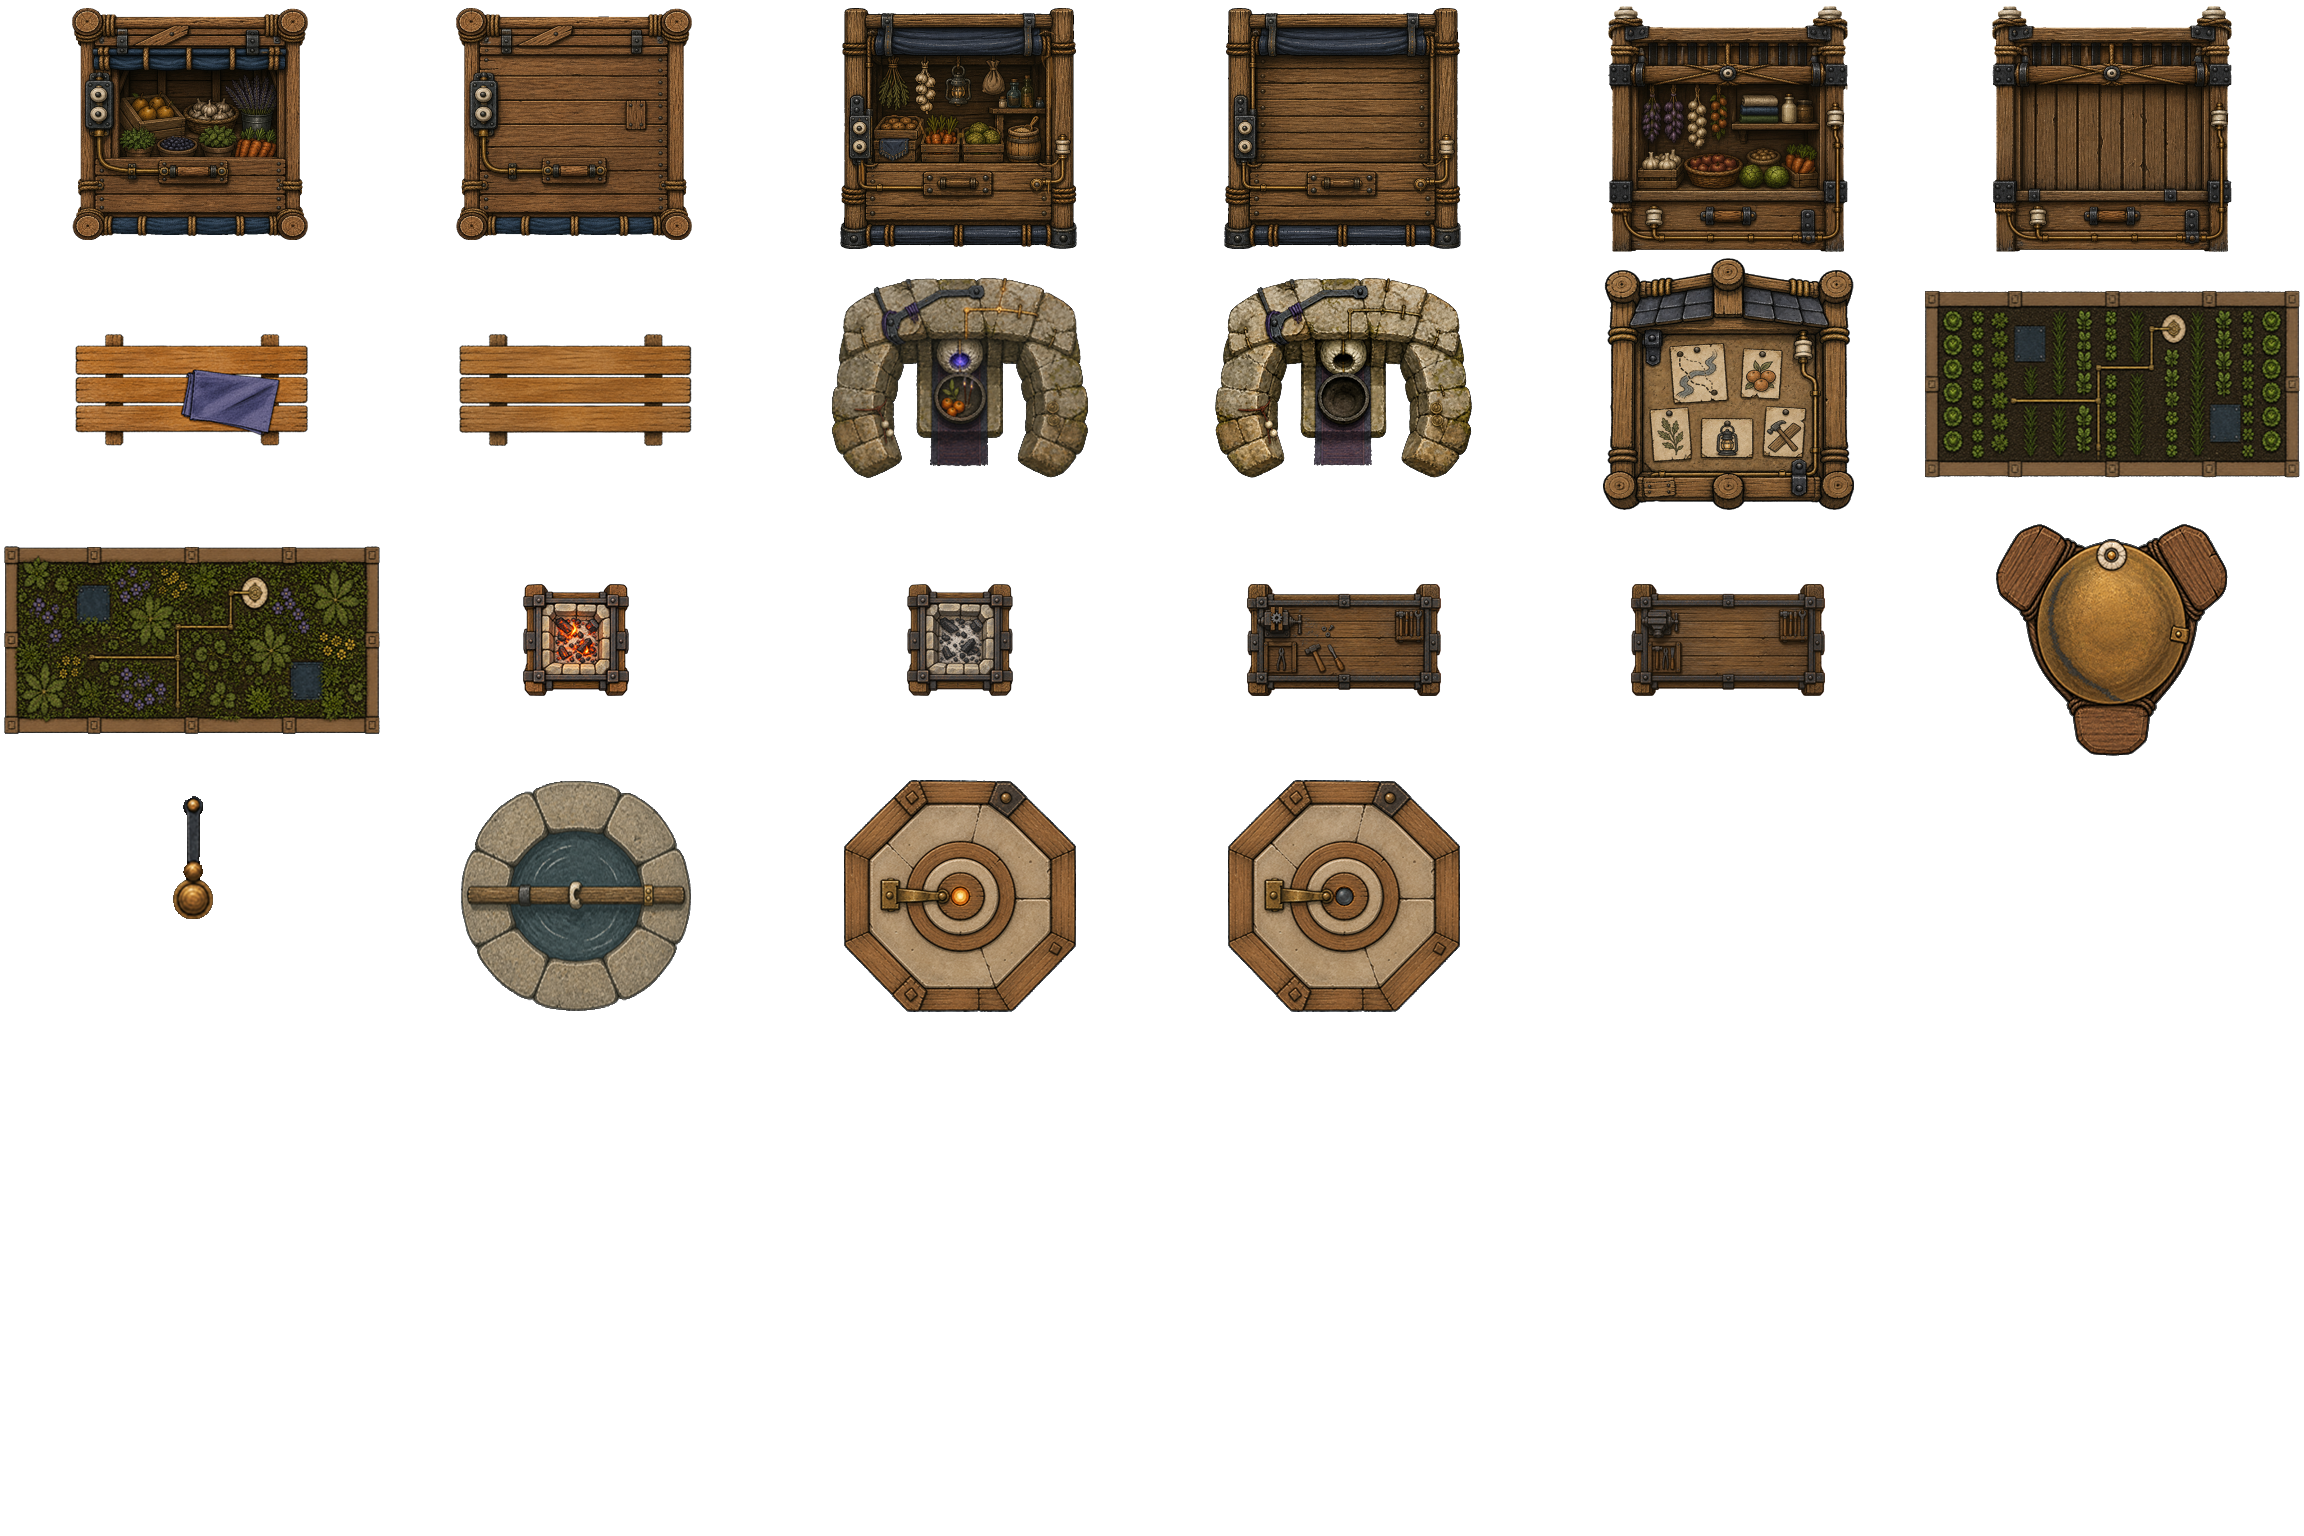
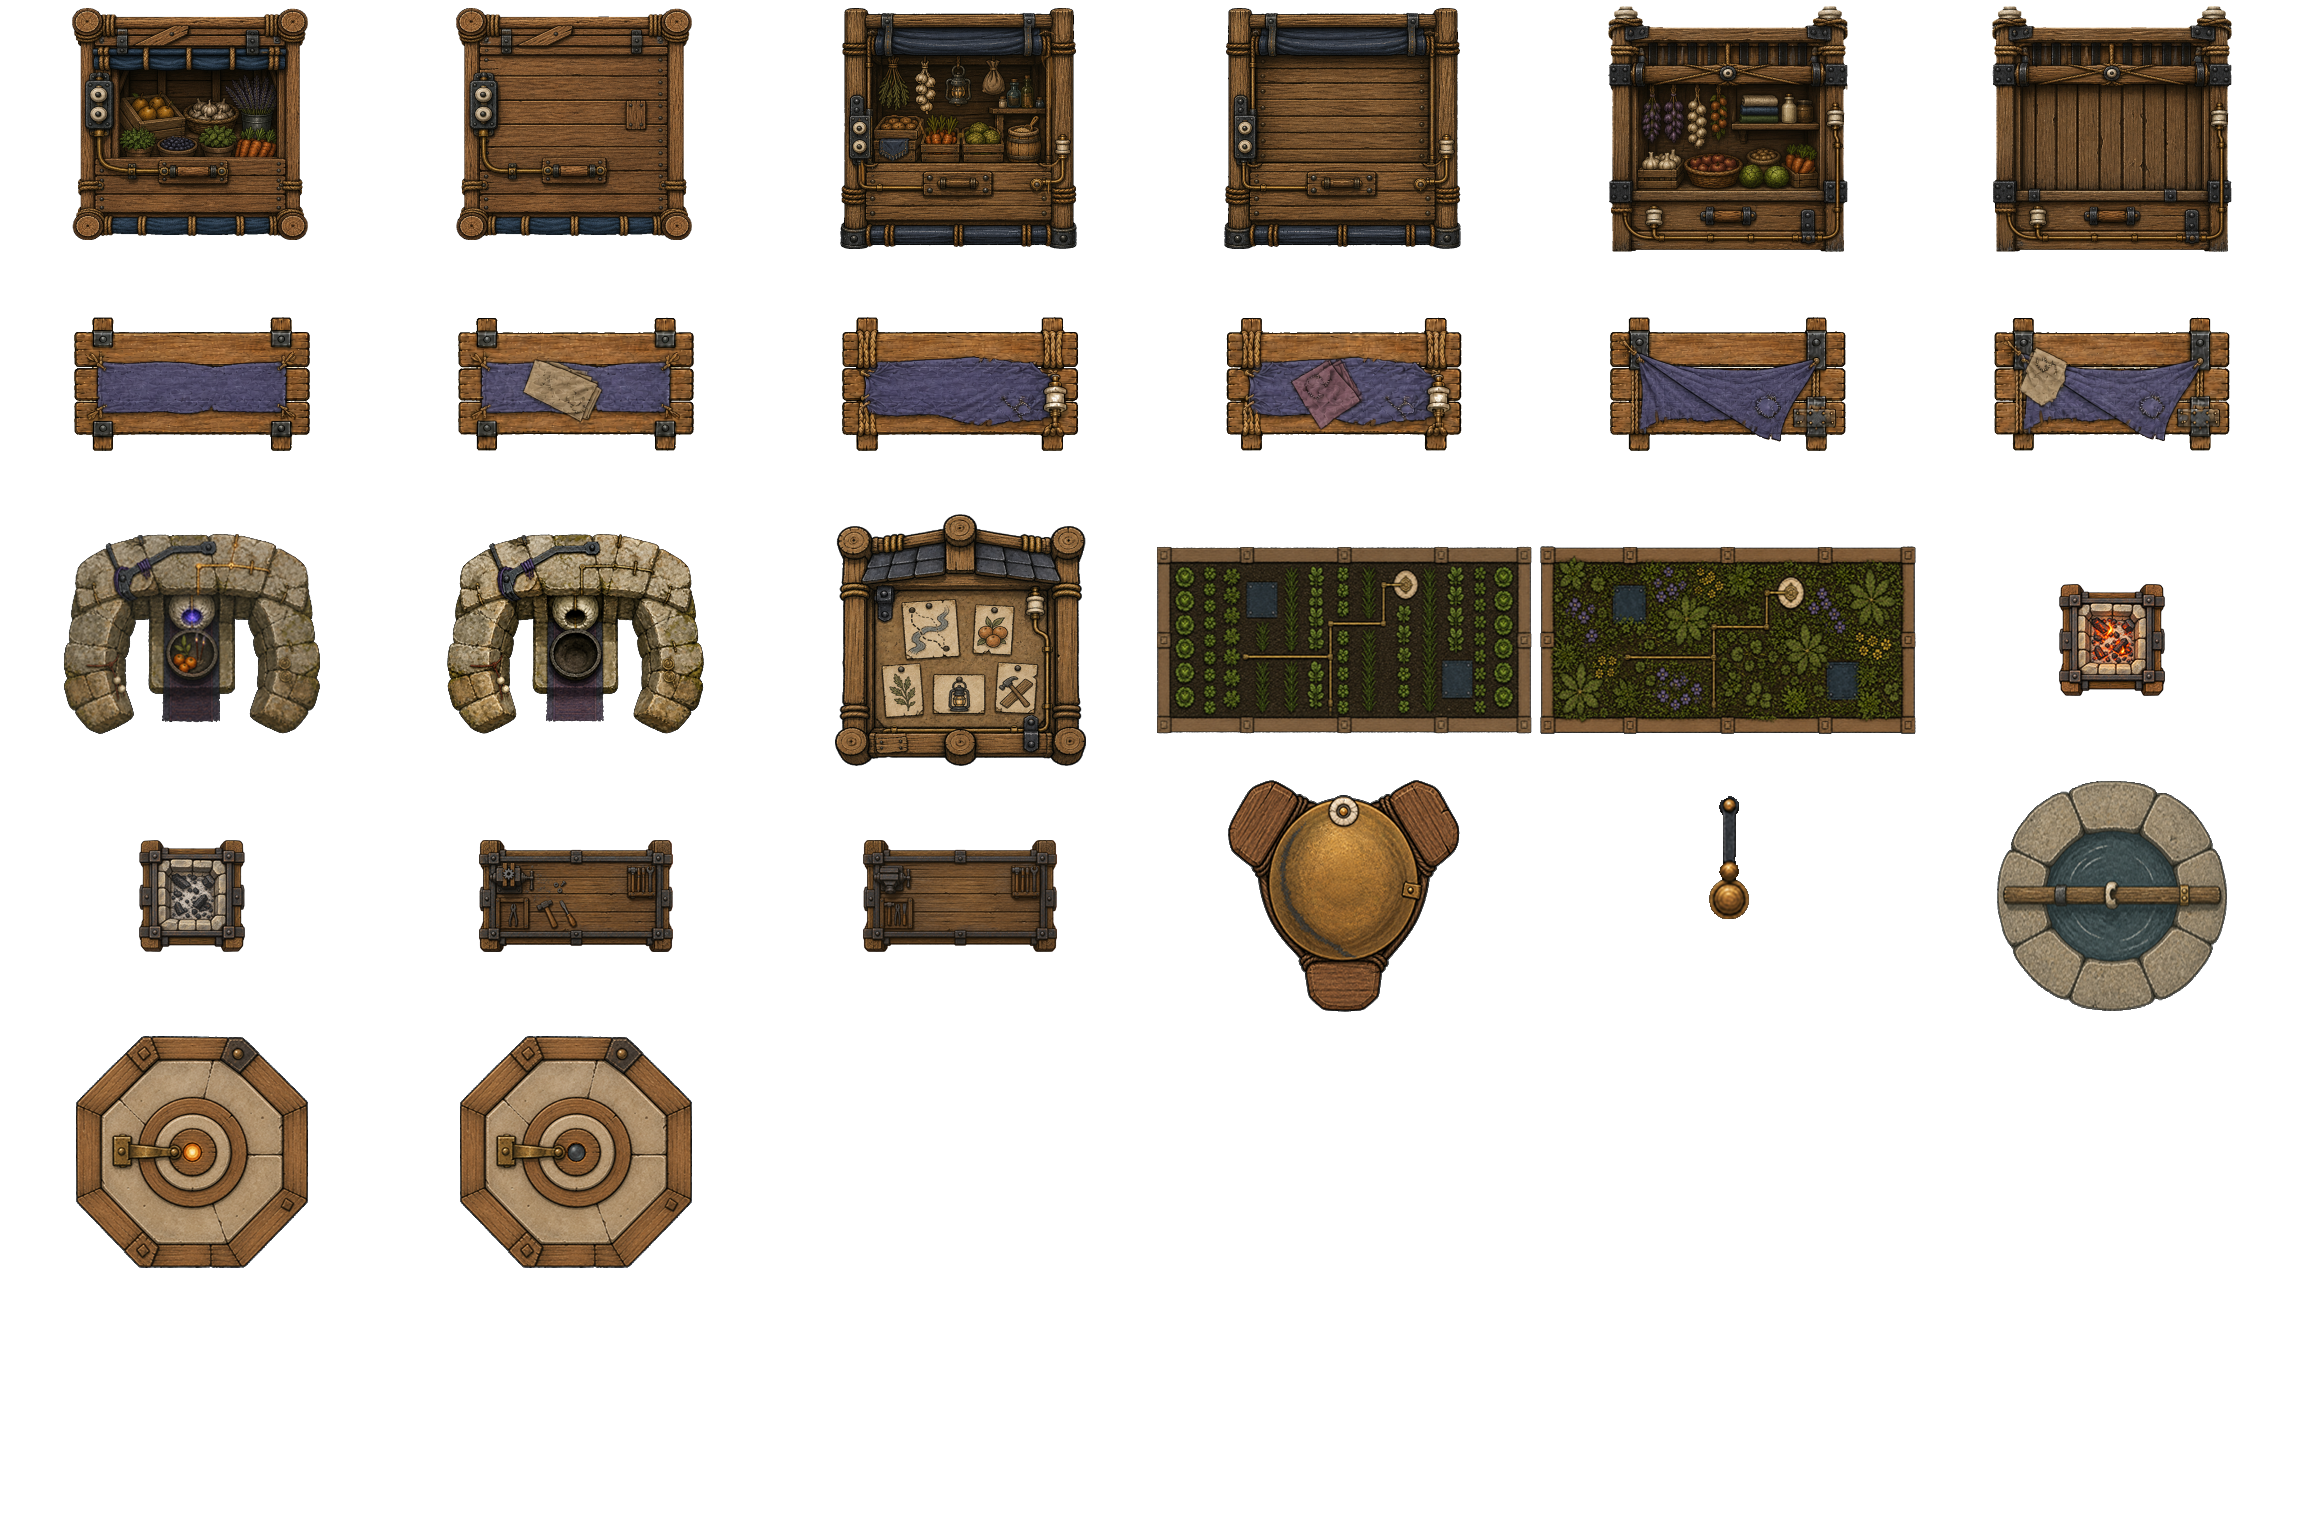
Refined bench assets.

diff --git a/environments/three_branches/renderer/assets.test.ts b/environments/three_branches/renderer/assets.test.ts
@@ -337,6 +337,12 @@ describe('Three Branches asset catalog', () => {
         './assets/source-art/stall/b/closed.png',
         './assets/source-art/stall/c/open.png',
         './assets/source-art/stall/c/closed.png',
+        './assets/source-art/frames/props/benchAEmpty.png',
+        './assets/source-art/frames/props/benchAOccupied.png',
+        './assets/source-art/frames/props/benchBEmpty.png',
+        './assets/source-art/frames/props/benchBOccupied.png',
+        './assets/source-art/frames/props/benchCEmpty.png',
+        './assets/source-art/frames/props/benchCOccupied.png',
         './assets/source-art/frames/props/repairBenchBusy.png',
         './assets/source-art/frames/bell/bellBase.png',
         './assets/source-art/frames/bell/bellStriker.png',
@@ -402,6 +408,39 @@ describe('Three Branches asset catalog', () => {
     ]) {
       expect(readPngHeader(sourcePath)).toEqual({ width: 1536, height: 1024, colorType: 6 })
       expect(coloredTransparentPixelCount(sourcePath)).toBe(0)
+    }
+  })
+
+  it('keeps every fabric-bench state on one clean shared registration', () => {
+    const pairs = [
+      ['benchAEmpty', 'benchAOccupied'],
+      ['benchBEmpty', 'benchBOccupied'],
+      ['benchCEmpty', 'benchCOccupied'],
+    ] as const
+    for (const [empty, occupied] of pairs) {
+      const emptyPath = `./assets/source-art/frames/props/${empty}.png`
+      const occupiedPath = `./assets/source-art/frames/props/${occupied}.png`
+      expect(readPngHeader(emptyPath)).toEqual({ width: 384, height: 256, colorType: 6 })
+      expect(readPngHeader(occupiedPath)).toEqual({ width: 384, height: 256, colorType: 6 })
+      expect(coloredTransparentPixelCount(emptyPath)).toBe(0)
+      expect(coloredTransparentPixelCount(occupiedPath)).toBe(0)
+
+      const emptyPixels = PNG.sync.read(readFileSync(fileURLToPath(new URL(emptyPath, import.meta.url)))).data
+      const occupiedPixels = PNG.sync.read(
+        readFileSync(fileURLToPath(new URL(occupiedPath, import.meta.url))),
+      ).data
+      expect(emptyPixels.some((value, index) => value !== occupiedPixels[index])).toBe(true)
+
+      const emptyGeometry = alphaGeometry(emptyPath)
+      const occupiedGeometry = alphaGeometry(occupiedPath)
+      expect(occupiedGeometry).toMatchObject({
+        left: emptyGeometry.left,
+        top: emptyGeometry.top,
+        right: emptyGeometry.right,
+        bottom: emptyGeometry.bottom,
+      })
+      expect(Math.abs(occupiedGeometry.centroidX - emptyGeometry.centroidX)).toBeLessThanOrEqual(1)
+      expect(Math.abs(occupiedGeometry.centroidY - emptyGeometry.centroidY)).toBeLessThanOrEqual(1)
     }
   })
 

diff --git a/environments/three_branches/renderer/props/props-art.ts b/environments/three_branches/renderer/props/props-art.ts
@@ -35,9 +35,14 @@ const STALL_TREATMENTS = [
   { open: ordinary('stallCOpen'), closed: ordinary('stallCClosed') },
 ] as const satisfies readonly TreatmentByState[]
 
+const BENCH_TREATMENTS = [
+  { occupied: ordinary('benchAOccupied'), empty: ordinary('benchAEmpty') },
+  { occupied: ordinary('benchBOccupied'), empty: ordinary('benchBEmpty') },
+  { occupied: ordinary('benchCOccupied'), empty: ordinary('benchCEmpty') },
+] as const satisfies readonly TreatmentByState[]
+
 const TREATMENTS: Readonly<Record<string, TreatmentByState>> = {
   lantern: { lit: ordinary('lanternLit'), unlit: ordinary('lanternUnlit') },
-  bench: { occupied: ordinary('benchOccupied'), empty: ordinary('benchEmpty') },
   shrine: { tended: ordinary('shrineTended'), untended: ordinary('shrineUntended') },
   board: { none: ordinary('boardNone') },
   plot: { tended: ordinary('plotTended'), overgrown: ordinary('plotOvergrown') },
@@ -47,10 +52,19 @@ const TREATMENTS: Readonly<Record<string, TreatmentByState>> = {
   bell: { ringing: bell(), silent: bell() },
 }
 
+function variantIndex(id: string, count: number): number {
+  const suffix = id.match(/(\d+)$/)?.[1]
+  return suffix === undefined ? 0 : Number.parseInt(suffix, 10) % count
+}
+
 /** Select one stall construction from its stable placement id. */
 export function stallVariantIndex(id: string): number {
-  const suffix = id.match(/(\d+)$/)?.[1]
-  return suffix === undefined ? 0 : Number.parseInt(suffix, 10) % STALL_TREATMENTS.length
+  return variantIndex(id, STALL_TREATMENTS.length)
+}
+
+/** Select one fabric-bench construction from its stable placement id. */
+export function benchVariantIndex(id: string): number {
+  return variantIndex(id, BENCH_TREATMENTS.length)
 }
 
 /** Prop art types enabled for the current owner artwork review. */
@@ -83,7 +97,11 @@ export function isFixedFacingPropType(type: string): boolean {
 /** Resolve the centered artwork still for one recorded prop state and stable placement id. */
 export function propTreatment(type: string, state: string, id: string): PropTreatment {
   const byState: TreatmentByState | undefined =
-    type === 'stall' ? STALL_TREATMENTS[stallVariantIndex(id)] : TREATMENTS[type]
+    type === 'stall'
+      ? STALL_TREATMENTS[stallVariantIndex(id)]
+      : type === 'bench'
+        ? BENCH_TREATMENTS[benchVariantIndex(id)]
+        : TREATMENTS[type]
   if (byState === undefined)
     throw new Error(`Three Branches prop type has no art treatment: ${type}`)
   const treatment = byState[state]

diff --git a/environments/three_branches/renderer/props/props-art.test.ts b/environments/three_branches/renderer/props/props-art.test.ts
@@ -4,6 +4,7 @@ import { atlasFrameNames } from '../assets.js'
 import { HEARTHSIDE_STYLE } from '../core/presentation.js'
 import { CATALOG } from '../ui/overlay.js'
 import {
+  benchVariantIndex,
   isFixedFacingPropType,
   PINE_FRAME_NAMES,
   propTreatment,
@@ -20,7 +21,7 @@ describe('Three Branches prop art treatments', () => {
   it('gives ordinary state stills a centered props-page frame', () => {
     expect(propTreatment('bench', 'occupied', 'bench_0').lower).toEqual({
       page: 'props',
-      frame: 'benchOccupied',
+      frame: 'benchAOccupied',
     })
   })
 
@@ -107,6 +108,31 @@ describe('Three Branches prop art treatments', () => {
   it('keeps stall construction independent from its recorded state', () => {
     expect(propTreatment('stall', 'closed', 'stall_2').lower.frame).toBe('stallCClosed')
     expect(propTreatment('stall', 'open', 'stall_2').lower.frame).toBe('stallCOpen')
+  })
+
+  it('cycles all three fabric-bench constructions by numeric suffix', () => {
+    expect(
+      ['bench_0', 'bench_1', 'bench_2', 'bench_3', 'bench_4'].map(
+        (id) => propTreatment('bench', 'empty', id).lower.frame,
+      ),
+    ).toEqual(['benchAEmpty', 'benchBEmpty', 'benchCEmpty', 'benchAEmpty', 'benchBEmpty'])
+  })
+
+  it('uses fabric bench A when an id has no numeric suffix', () => {
+    expect(benchVariantIndex('village-bench')).toBe(0)
+    expect(propTreatment('bench', 'empty', 'village-bench').lower.frame).toBe('benchAEmpty')
+  })
+
+  it('keeps every fabric-bench construction paired across its recorded states', () => {
+    const expected = [
+      { id: 'bench_0', empty: 'benchAEmpty', occupied: 'benchAOccupied' },
+      { id: 'bench_1', empty: 'benchBEmpty', occupied: 'benchBOccupied' },
+      { id: 'bench_2', empty: 'benchCEmpty', occupied: 'benchCOccupied' },
+    ]
+    for (const bench of expected) {
+      expect(propTreatment('bench', 'empty', bench.id).lower.frame).toBe(bench.empty)
+      expect(propTreatment('bench', 'occupied', bench.id).lower.frame).toBe(bench.occupied)
+    }
   })
 
   it('selects scenery variants from stable placement ids', () => {

diff --git a/environments/three_branches/renderer/ui/annotations.ts b/environments/three_branches/renderer/ui/annotations.ts
@@ -91,8 +91,8 @@ const PLATE_LINE_HEIGHT = 17
 const CHIP_GAP = 6
 const CHIP_PADDING_X = 8
 const CHIP_PADDING_Y = 3
-const CHIP_FONT_SIZE = 15
-const CHIP_CHAR_WIDTH = 9.0625
+const CHIP_FONT_SIZE = 16
+const CHIP_CHAR_WIDTH = 9.6667
 const CHIP_TEXT_GAP = 6
 const CHIP_ICON_SIZE = 18
 const CHIP_ACCENT_SIZE = 22

diff --git a/plans/days-at-three-branches/stages/5-3-visual-refinement.md b/plans/days-at-three-branches/stages/5-3-visual-refinement.md
@@ -99,9 +99,9 @@ The approved stall family has three constructions with matching open and closed 
 
 The approved concept and material board define the art language for all interactive props and the market crate. The selected lantern supplies secondary continuity only when it agrees with those primary references. Regenerate full-colour art rather than tinting it at runtime, and use no wood mask, shader, numeric colour tolerance, or colour snapshot test. Continue one family at a time in this order: bench, shrine, board, plot, hearth, repair bench, pump, then bell. Present a controlled neutral-state comparison before deriving the remaining states. Gameplay footprint, state meaning, registration, and projection remain fixed. Grain, wear, and value balance may vary, but the props stay within one timber family.
 
-The current bench uses balanced field ink, clear warm cedar, controlled hand tint, and no paper haze. Empty and occupied states share construction and registration; a bold indigo-violet cloth supplies the occupied cue.
+The current bench uses balanced field ink, clear warm cedar, controlled hand tint, and no paper haze. Every construction keeps a free-form indigo-violet textile; empty and occupied states share construction and registration, while one compact personal textile supplies the occupied cue.
 
-The bench and storage-crate direction is retained in `../art/ordinary-props-production-1/`. The revised bench Gate A comparison gives every empty construction a permanent indigo textile element and remains pending owner selection. The owner selected Crate C for production. Its canonical source preserves the existing 512-square centered scenery contract and restrained wood-led material balance. The repair bench keeps its approved construction and state cues. Its idle state receives the owner-approved bounded RGB correction from the busy state while preserving every alpha value, visible bound, tool, and registration coordinate.
+The bench and storage-crate direction is retained in `../art/ordinary-props-production-1/`. The owner approved Fabric Bench A, B, and C as the stable empty-bench variety set. Each keeps its permanent free-form indigo textile, while its matching occupied state adds one compact personal textile without changing construction, visible bounds, centered registration, projection, or gameplay footprint. The owner selected Crate C for production. Its canonical source preserves the existing 512-square centered scenery contract and restrained wood-led material balance. The repair bench keeps its approved construction and state cues. Its idle state receives the owner-approved bounded RGB correction from the busy state while preserving every alpha value, visible bound, tool, and registration coordinate.
 
 The current shrine is a decorated riven conduit arch in warm gray-ochre stone, with indigo-violet cloth, an ochre beaded cord, brass votive discs, a bone aperture, and an indigo iron brace. The tended state adds fruit, a green sprig, incense, aperture light, and warm conductor light. Both states keep the centered lower-layer role, fixed-north presentation, and existing gameplay contract.
 
